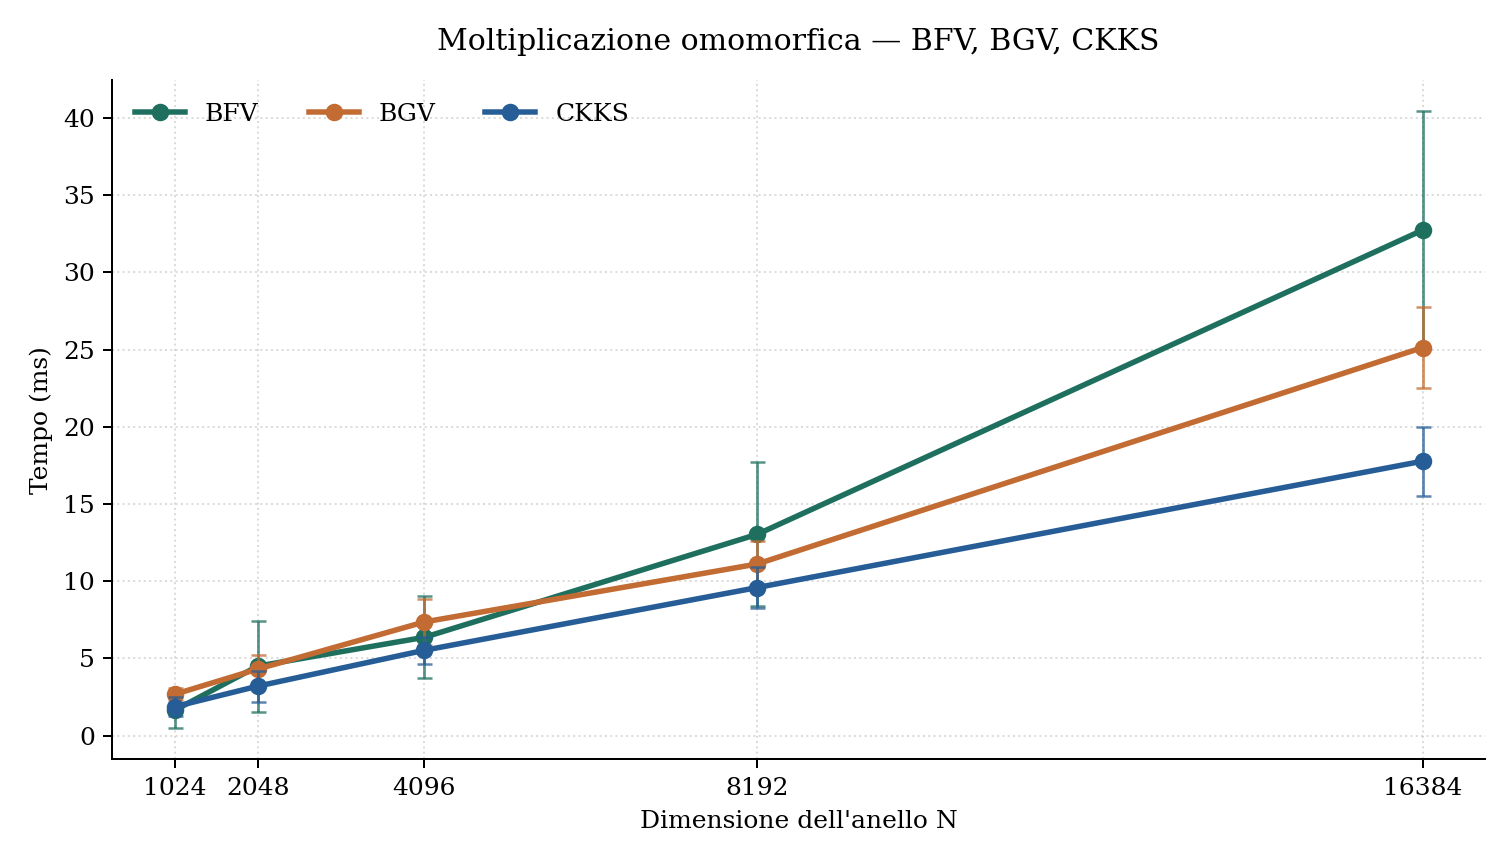
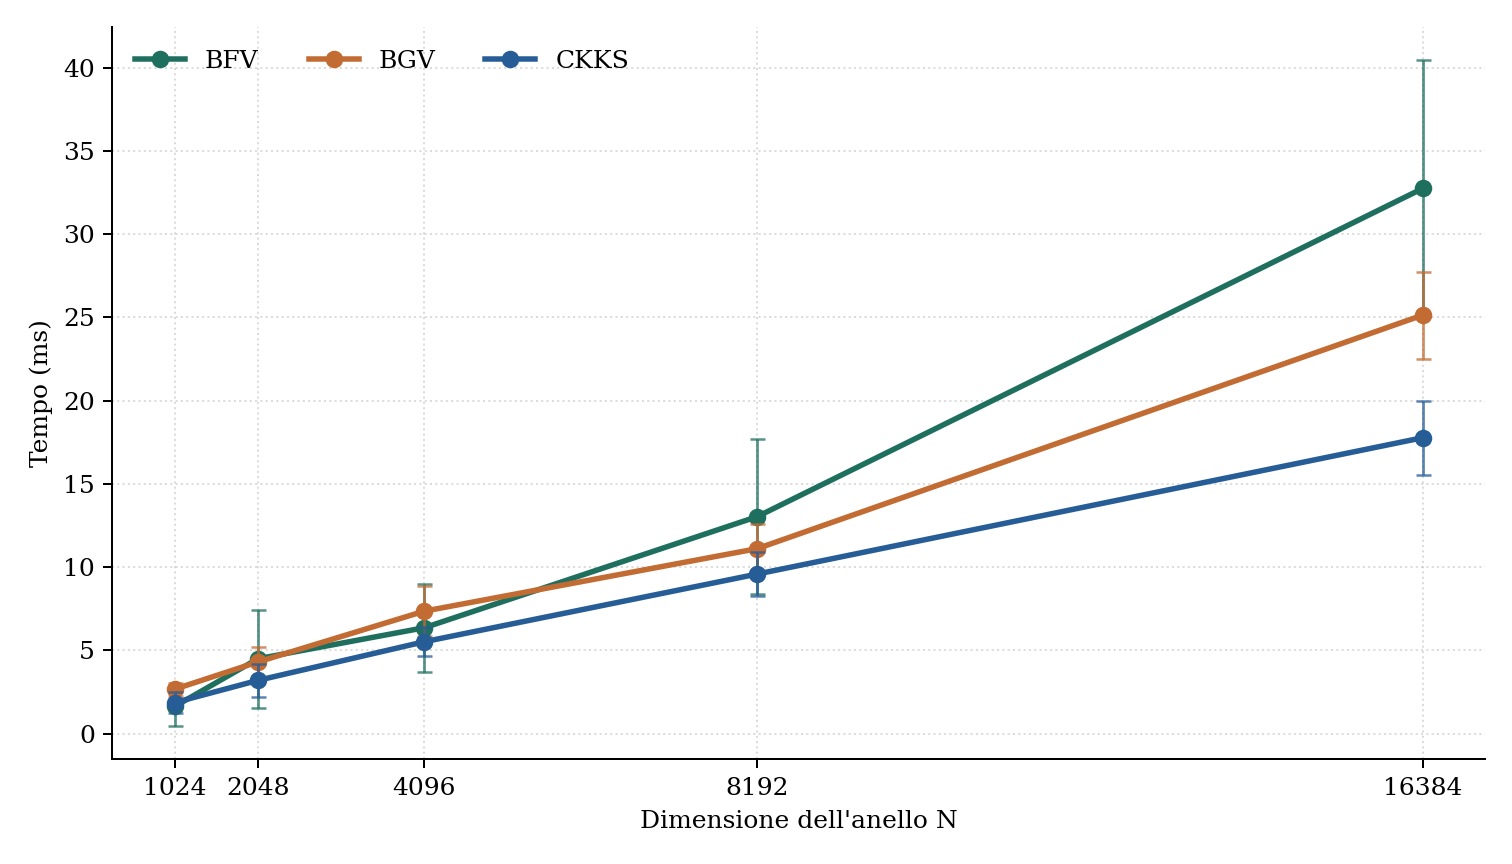
Revert "update plots"
This reverts commit 236c8433865931c101ce59b552935703225d0df0.

diff --git a/linear_regression/generate_linear_regression_figures.py b/linear_regression/generate_linear_regression_figures.py
@@ -123,76 +123,68 @@ def draw_scaling(frames, output_path):
 
 
 def draw_epoch_times(frame, output_path):
-    fig, ax = plt.subplots(figsize=(10.8, 5.8))
+    fig, ax = plt.subplots(figsize=(8.8, 5.2))
 
     bootstrap_epoch = 14
     bootstrap_time = frame.loc[frame["epoch"] == bootstrap_epoch, "epoch_time_seconds"].iloc[0]
-    line_color = "#2563EB"
-    bootstrap_color = "#D97706"
+    pre_mask = frame["epoch"] < bootstrap_epoch
+    post_mask = frame["epoch"] >= bootstrap_epoch
 
-    # The narrow central band marks the epoch in which the ciphertext is refreshed.
-    ax.axvspan(0.5, bootstrap_epoch - 0.5, color="#EFF6FF", zorder=0)
-    ax.axvspan(bootstrap_epoch - 0.5, bootstrap_epoch + 0.5, color="#FFF7ED", zorder=0)
-    ax.axvspan(bootstrap_epoch + 0.5, frame["epoch"].max() + 0.5, color="#F0FDFA", zorder=0)
+    ax.axvspan(0.5, bootstrap_epoch - 0.5, color="#265d97", alpha=0.05)
+    ax.axvspan(bootstrap_epoch - 0.5, frame["epoch"].max() + 0.5, color="#c26b32", alpha=0.05)
 
     ax.plot(
         frame["epoch"],
         frame["epoch_time_seconds"],
         marker="o",
-        markersize=7.5,
-        linewidth=2.8,
-        color=line_color,
-        zorder=2,
+        markersize=7,
+        linewidth=2.6,
+        color="#265d97",
     )
     ax.plot(
-        bootstrap_epoch,
-        bootstrap_time,
-        marker="o",
+        frame.loc[pre_mask, "epoch"],
+        frame.loc[pre_mask, "epoch_time_seconds"],
         linewidth=0,
-        markersize=11,
-        color=bootstrap_color,
-        markeredgecolor="white",
-        markeredgewidth=1.5,
-        zorder=3,
+        marker="o",
+        markersize=7,
+        color="#265d97",
+    )
+    ax.plot(
+        frame.loc[post_mask, "epoch"],
+        frame.loc[post_mask, "epoch_time_seconds"],
+        linewidth=0,
+        marker="o",
+        markersize=7,
+        color="#c26b32",
     )
 
-    ax.axvline(bootstrap_epoch, color=bootstrap_color, linestyle="--", linewidth=1.8, alpha=0.9)
+    ax.axvline(bootstrap_epoch, color="#c26b32", linestyle="--", linewidth=1.6, alpha=0.9)
     ax.annotate(
-        "Bootstrap\nepoca 14",
+        "bootstrap",
         (bootstrap_epoch, bootstrap_time),
         textcoords="offset points",
-        xytext=(16, 18),
+        xytext=(12, 12),
         ha="left",
-        va="bottom",
-        color=bootstrap_color,
-        fontsize=11.5,
-        fontweight="bold",
-        arrowprops={"arrowstyle": "-", "color": bootstrap_color, "linewidth": 1.2},
+        color="#c26b32",
+        fontsize=11,
+        fontweight="semibold",
     )
 
-    zone_label_style = {
-        "transform": ax.get_xaxis_transform(),
-        "ha": "center",
-        "va": "bottom",
-        "fontsize": 10,
-        "fontweight": "semibold",
-    }
-    ax.text(7, 0.025, "Prima del bootstrap", color="#1E40AF", **zone_label_style)
-    ax.text(14, 0.025, "Bootstrap", color=bootstrap_color, **zone_label_style)
-    ax.text(17.5, 0.025, "Dopo il bootstrap", color="#0F766E", **zone_label_style)
+    ax.text(0.02, 0.96, "Prima del bootstrap", transform=ax.transAxes, va="top", ha="left", fontsize=10, color="#265d97")
+    ax.text(0.98, 0.96, "Dopo il bootstrap", transform=ax.transAxes, va="top", ha="right", fontsize=10, color="#c26b32")
 
     ax.set_xlabel("Epoca")
     ax.set_ylabel("Tempo per epoca (s)")
-    ax.grid(True, axis="y", which="major", linestyle=":", color="#94A3B8", alpha=0.7)
-    ax.grid(False, axis="x")
+    ax.grid(True, which="major", linestyle=":", alpha=0.45)
     ax.yaxis.set_major_formatter(ticker.StrMethodFormatter("{x:g}"))
-    ax.xaxis.set_major_locator(ticker.MultipleLocator(2))
-    ax.xaxis.set_minor_locator(ticker.MultipleLocator(1))
+    ax.xaxis.set_major_locator(ticker.FixedLocator(frame["epoch"].tolist()))
+    ax.xaxis.set_major_formatter(
+        ticker.FixedFormatter([str(value) for value in frame["epoch"].tolist()])
+    )
     ax.set_xlim(0.5, frame["epoch"].max() + 0.5)
-    ax.set_ylim(0, frame["epoch_time_seconds"].max() * 1.16)
 
     fig.tight_layout()
-    fig.savefig(output_path, dpi=220)
+    fig.savefig(output_path, dpi=180)
     plt.close(fig)
 
 

diff --git a/tesi/generate_benchmark_figures.py b/tesi/generate_benchmark_figures.py
@@ -55,7 +55,7 @@ def load_results(scheme):
     return aggregated.merge(stddev, on=key_cols, how="left")
 
 
-def draw(operation, filename, ylabel, title, metric="cpu_time", schemes=SCHEMES):
+def draw(operation, filename, ylabel, metric="cpu_time", schemes=SCHEMES):
     fig, ax = plt.subplots(figsize=(8.4, 4.8))
     plotted = False
     for scheme in schemes:
@@ -101,7 +101,6 @@ def draw(operation, filename, ylabel, title, metric="cpu_time", schemes=SCHEMES)
     ax.xaxis.set_minor_locator(ticker.NullLocator())
     ax.set_yscale("linear")
     ax.yaxis.set_major_formatter(ticker.StrMethodFormatter("{x:g}"))
-    ax.set_title(title, pad=12)
     ax.set_xlabel("Dimensione dell'anello N")
     ax.set_ylabel(ylabel)
     ax.grid(True, which="both", linestyle=":", alpha=0.45)
@@ -120,7 +119,7 @@ if __name__ == "__main__":
             "axes.spines.right": False,
         }
     )
-    draw("BM_EvalAdd", "benchmark_add.png", "Tempo (ms)", "Somma omomorfica — BFV, BGV, CKKS")
-    draw("BM_EvalMult", "benchmark_mult.png", "Tempo (ms)", "Moltiplicazione omomorfica — BFV, BGV, CKKS")
-    draw("BM_Bootstrap", "benchmark_bootstrap.png", "Tempo (ms)", "Bootstrapping — CKKS", schemes=("ckks",))
-    draw("BM_ContextCreation", "benchmark_memory.png", "Heap osservato (MB)", "Creazione del contesto — BFV, BGV, CKKS", metric="MB")
+    draw("BM_EvalAdd", "benchmark_add.png", "Tempo (ms)")
+    draw("BM_EvalMult", "benchmark_mult.png", "Tempo (ms)")
+    draw("BM_Bootstrap", "benchmark_bootstrap.png", "Tempo (ms)", schemes=("ckks",))
+    draw("BM_ContextCreation", "benchmark_memory.png", "Heap osservato (MB)", metric="MB")
